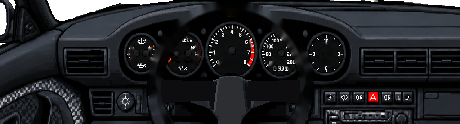
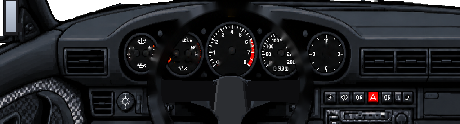
959: retrovisor esquerdo inteiro e funcionando (o vidro da arte estava cortado e transparente)
Claude-Session: https://claude.ai/code/session_01MLD9VR7gkmY4w6a9beZcp6

Changed region(s): [[0.0, 0.0, 0.0609, 0.2903]]

diff --git a/src/sidemirror.ts b/src/sidemirror.ts
@@ -69,7 +69,7 @@ export function findGlass(key: string, top: HTMLCanvasElement | null, dash: HTML
       best = id;
     }
   }
-  if (bestN < 300) {
+  if (bestN < 200) {
     glasses.set(key, null);
     return null;
   }
